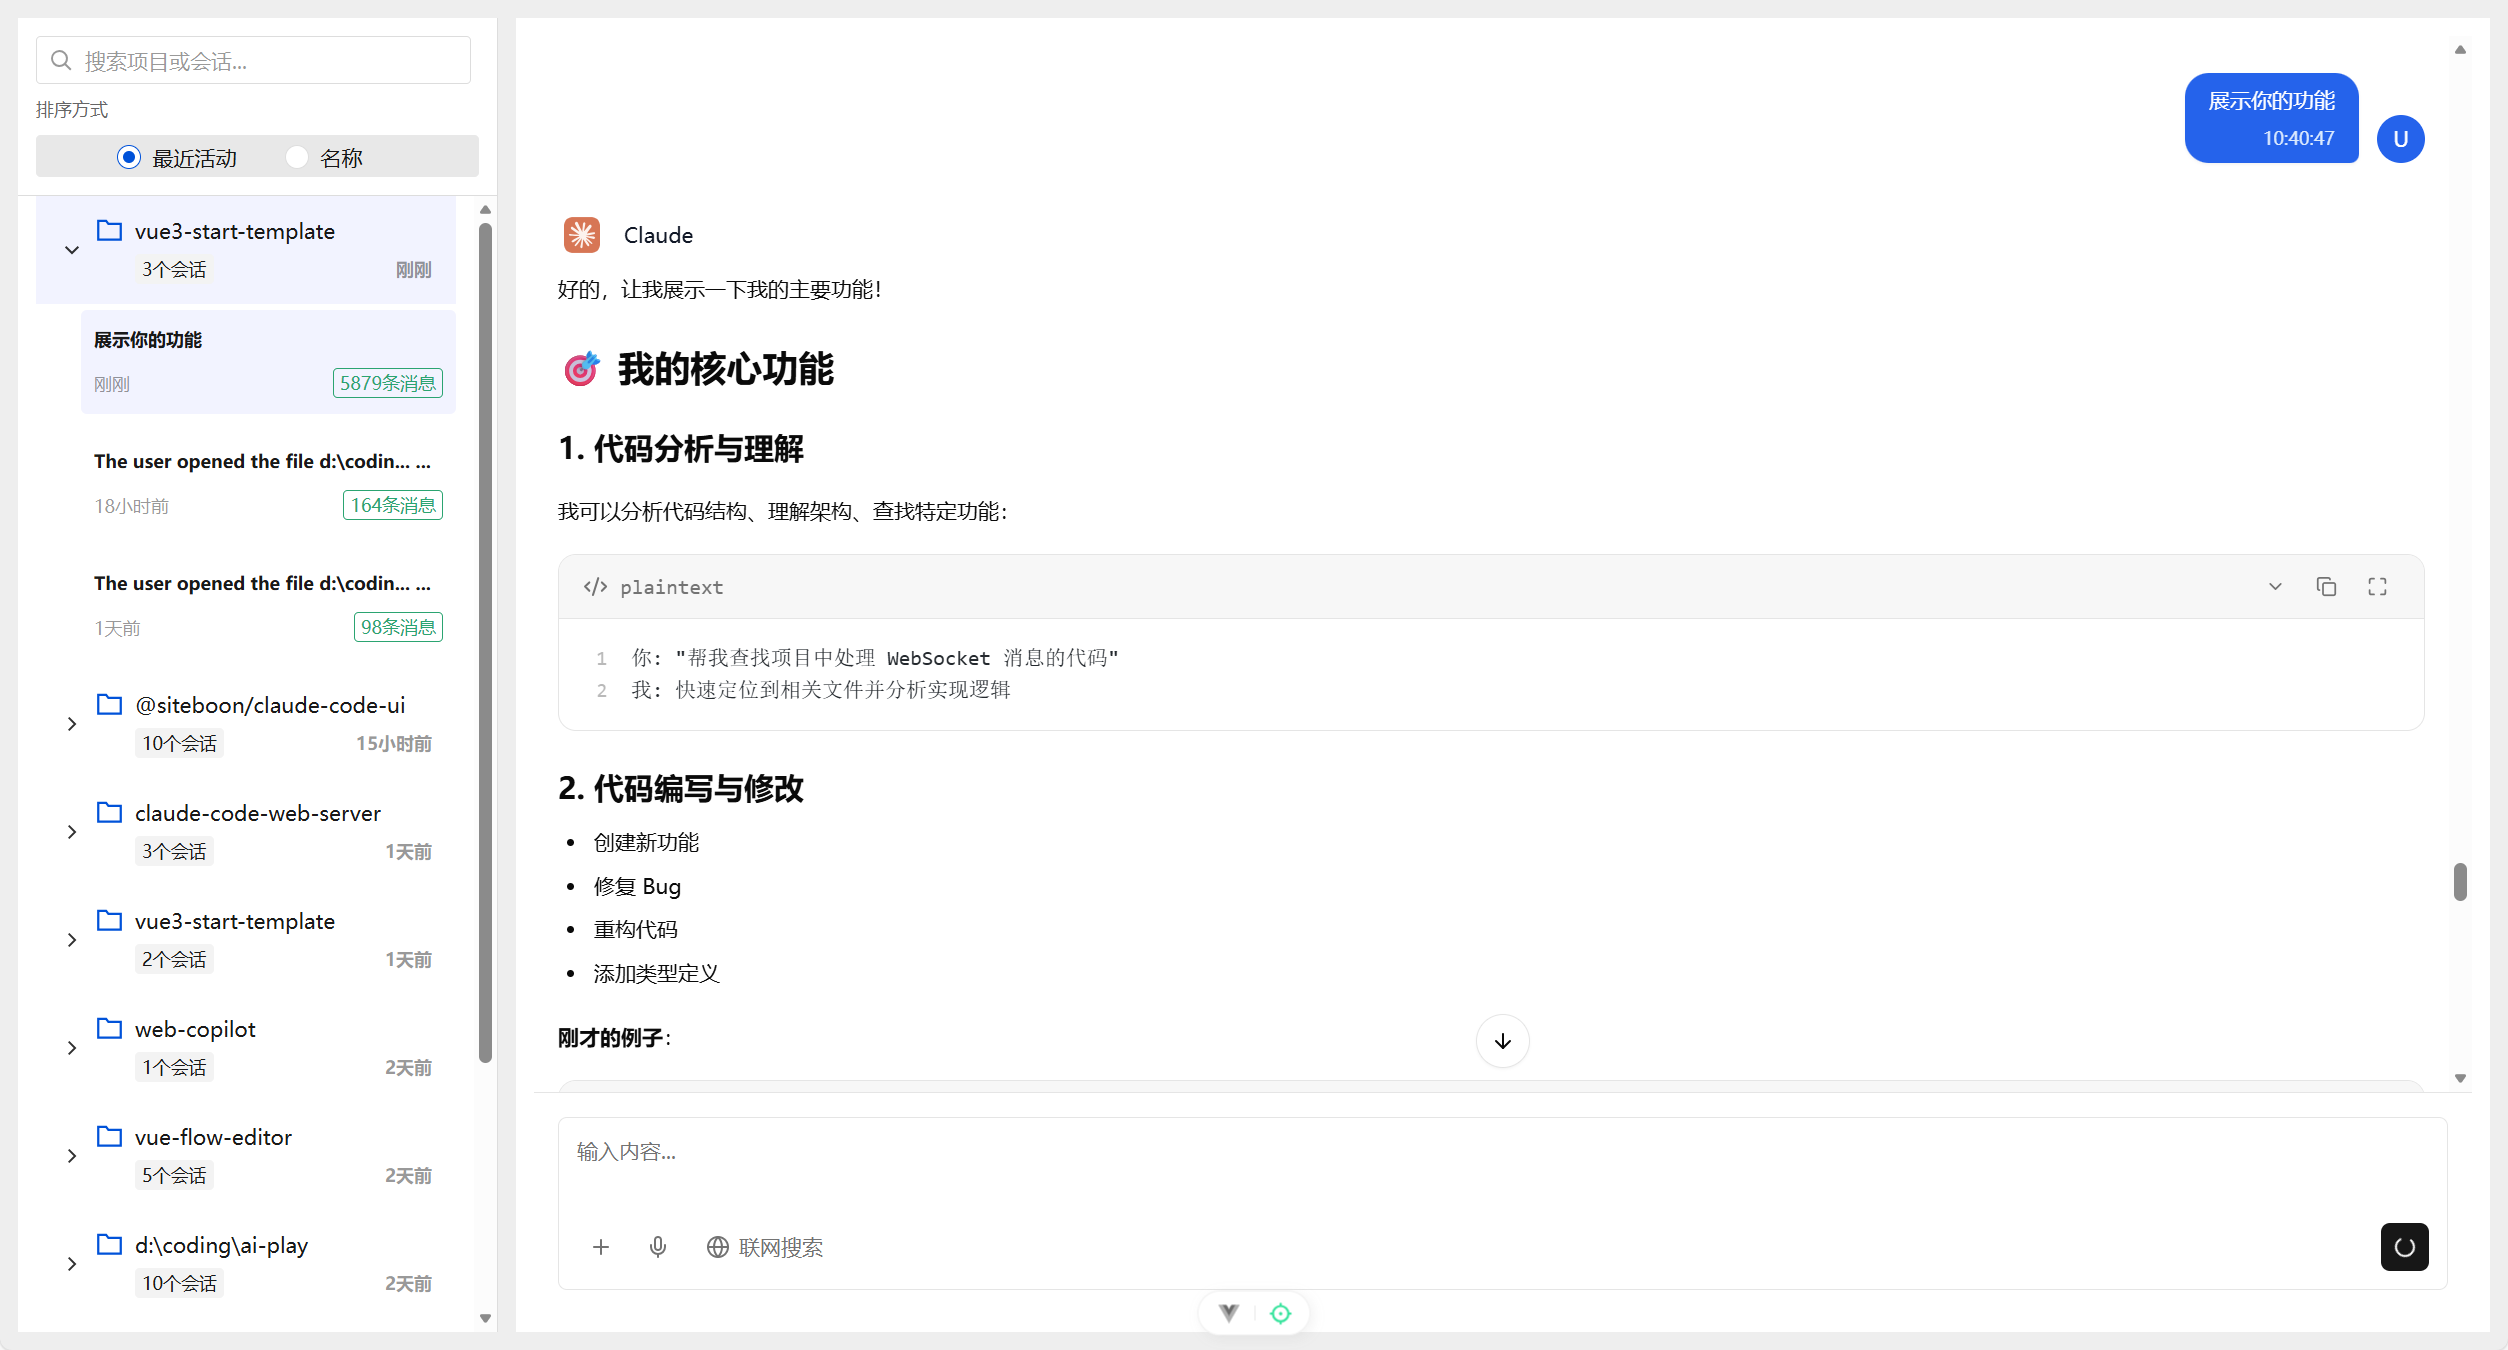
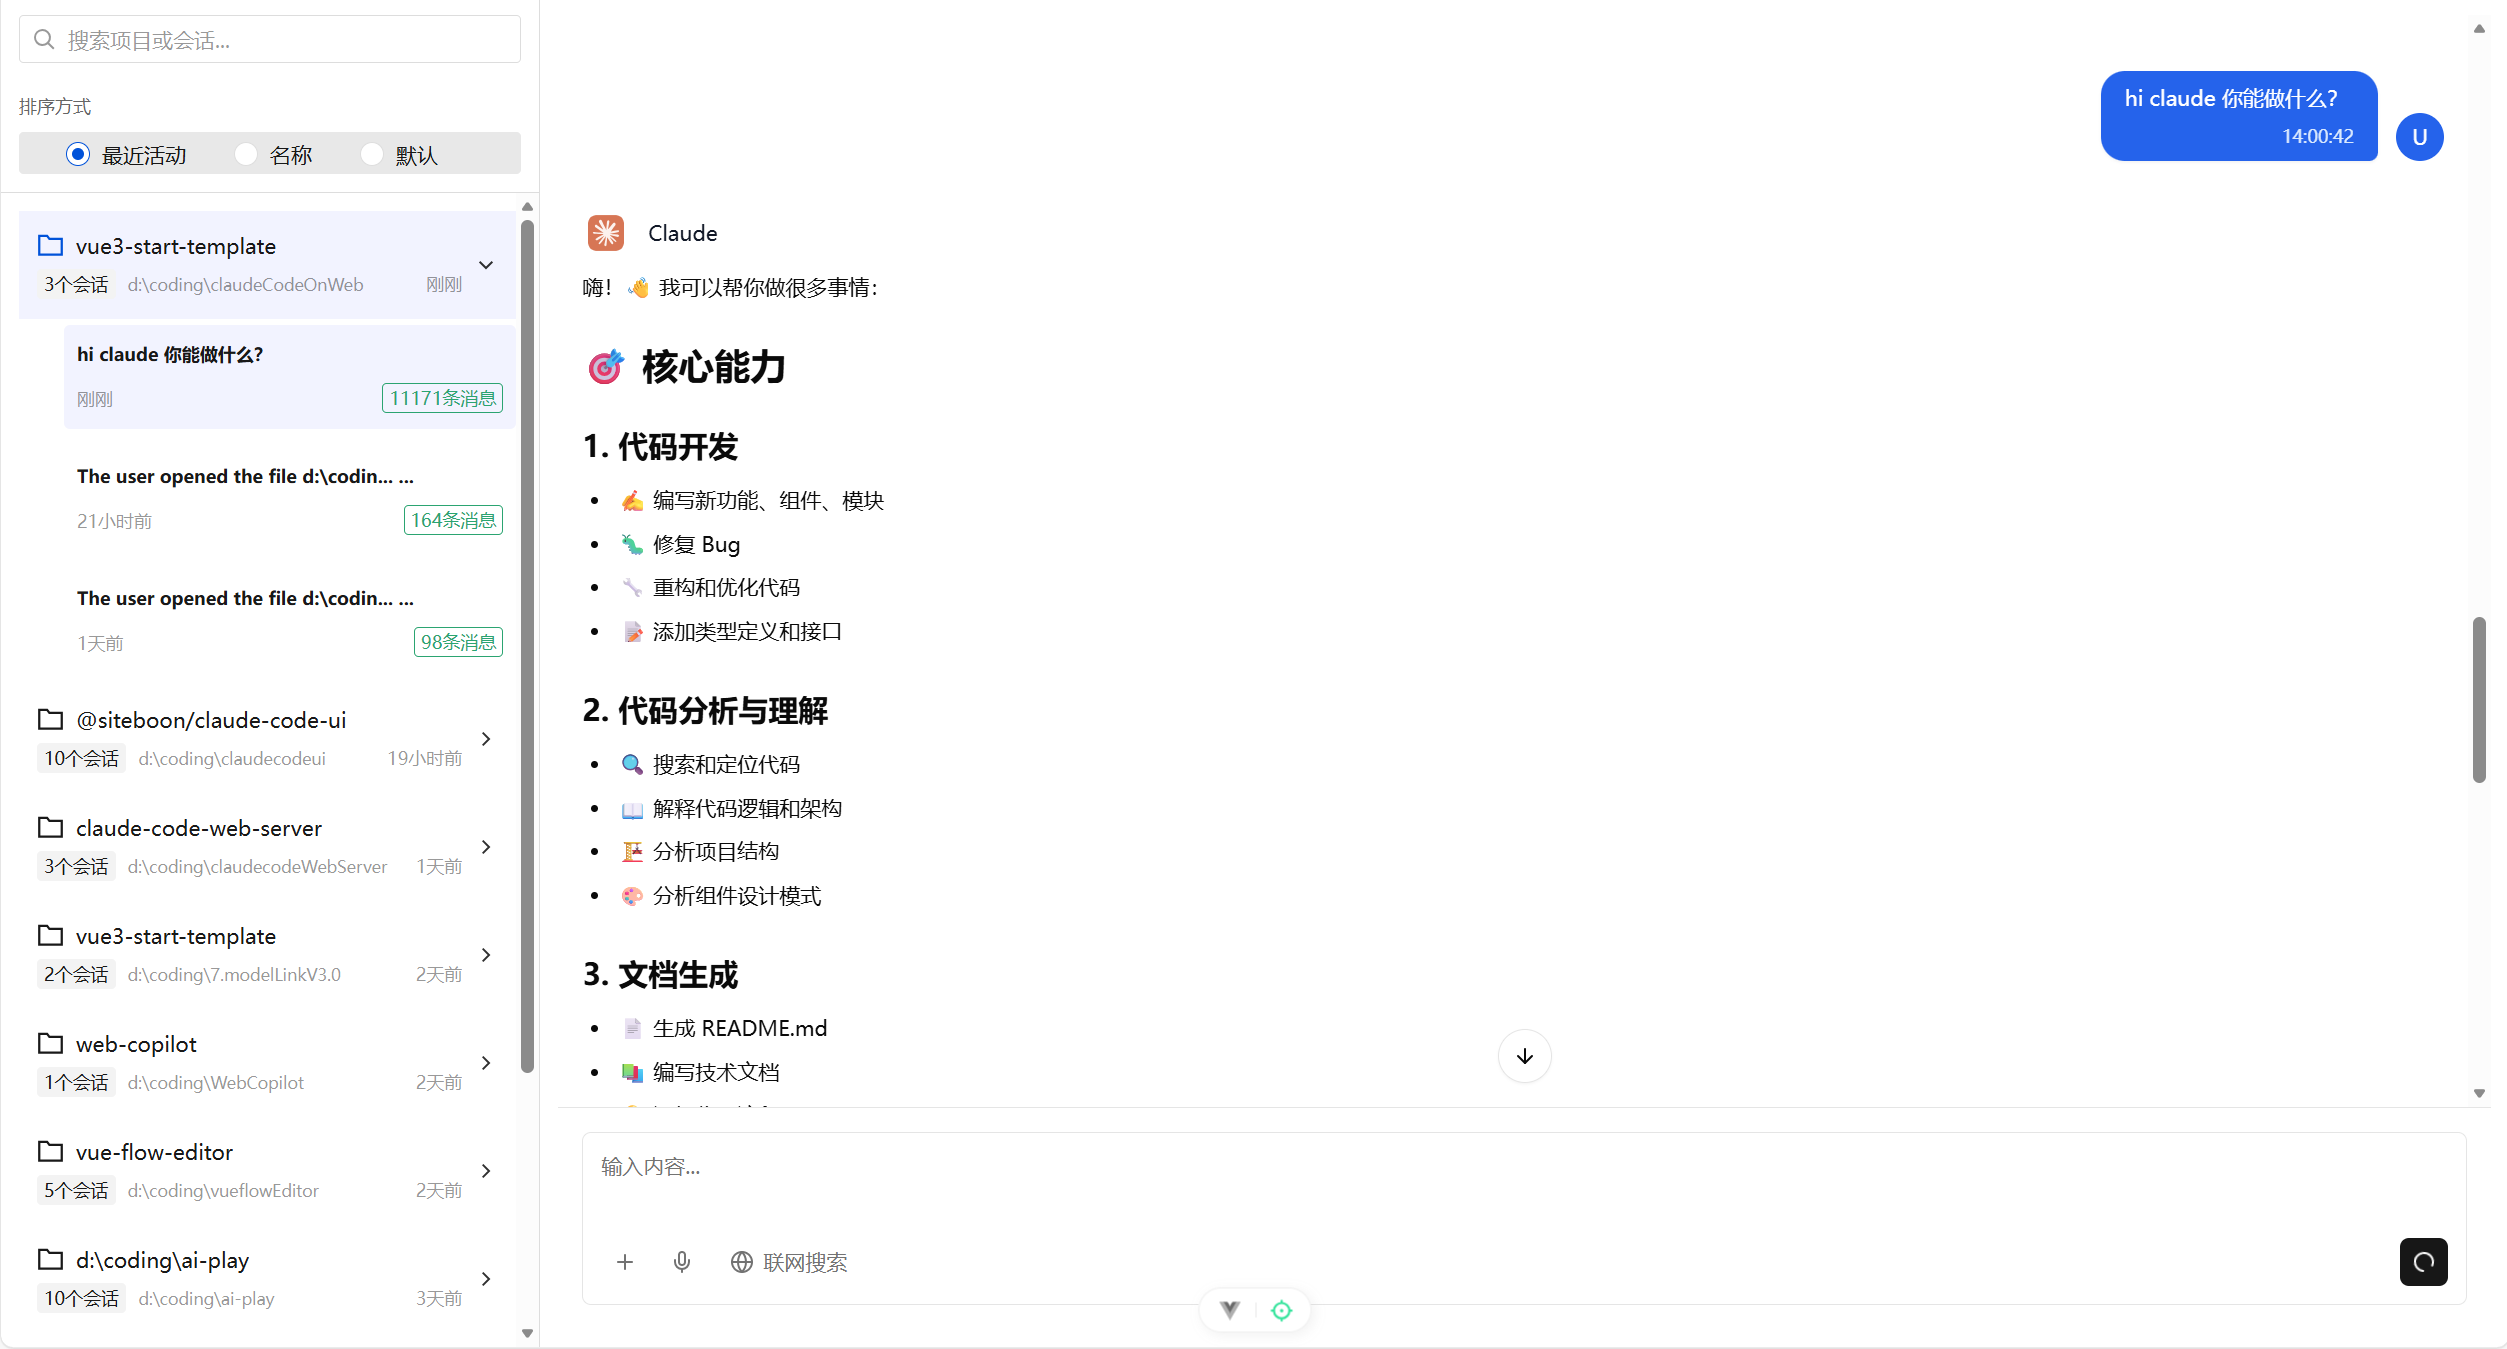
update🆙: 增加布局组件

diff --git a/src/views/index/index.vue b/src/views/index/index.vue
@@ -1,4 +1,5 @@
 <script lang="ts" setup>
+import { SplitterGroup, SplitterPanel, SplitterResizeHandle } from 'reka-ui'
 import { useChat } from './hooks/useChat'
 import { useWebSocket } from './hooks/useWebSocket'
 import { useWebSocketMessageHandler } from './hooks/useWebSocketMessageHandler'
@@ -19,215 +20,33 @@ onMounted(async () => {
 
 <template>
   <div class="index_container">
-    <!-- 左侧边栏 -->
-    <div class="left">
-      <sidebar />
-    </div>
-
-    <!-- 右侧内容区 -->
-    <div class="right">
-      <div class="welcome_container" v-if="!rawMessages?.length">
-        <t-empty status="info" title="欢迎使用 Claude Code Web">
-          <p class="welcome_text">请从左侧选择一个会话开始</p>
-        </t-empty>
-      </div>
-      <chatView v-else />
-    </div>
+    <SplitterGroup :direction="'horizontal'" auto-save-id="splitter-index">
+      <SplitterPanel :min-size="10">
+        <!-- 左侧边栏 -->
+        <sidebar />
+      </SplitterPanel>
+      <SplitterResizeHandle>
+        <div class="resizeLine"></div>
+      </SplitterResizeHandle>
+      <SplitterPanel :min-size="10" class="right">
+        <!-- 右侧内容区 -->
+        <div class="right">
+          <div class="welcome_container" v-if="!rawMessages?.length">
+            <t-empty status="info" title="欢迎使用 Claude Code Web">
+              <p class="welcome_text">请从左侧选择一个会话开始</p>
+            </t-empty>
+          </div>
+          <chatView v-else />
+        </div>
+      </SplitterPanel>
+    </SplitterGroup>
   </div>
 </template>
 
 <style lang="scss" scoped>
 .index_container {
   height: 100%;
-  display: flex;
-  gap: 12px;
-  padding: 12px;
-
-  .left {
-    width: 320px;
-    height: 100%;
-    display: flex;
-    flex-direction: column;
-    border-right: 1px solid var(--td-component-border);
-    background-color: var(--td-bg-color-container);
-
-    .search_input {
-      margin: 12px;
-      margin-bottom: 8px;
-      flex-shrink: 0;
-    }
-
-    .filter_container {
-      padding: 0 12px 12px 12px;
-      border-bottom: 1px solid var(--td-component-border);
-
-      .filter_label {
-        font-size: 12px;
-        color: var(--td-text-color-secondary);
-        margin-bottom: 8px;
-      }
-
-      :deep(.t-radio-group) {
-        width: 100%;
-        display: flex;
-        justify-content: center;
-        gap: 8px;
-      }
-    }
-
-    .loading_container,
-    .empty_container {
-      display: flex;
-      align-items: center;
-      justify-content: center;
-      flex: 1;
-      min-height: 200px;
-    }
-
-    .projects_list {
-      flex: 1;
-      overflow-y: auto;
-      padding: 0 12px 12px 12px;
-
-      .projects_collapse {
-        :deep(.t-collapse-panel__header) {
-          transition: background-color 0.2s;
-
-          &:hover {
-            background-color: var(--td-bg-color-container-hover);
-          }
-        }
-        :deep(.t-collapse-panel__header--blank) {
-          flex: unset;
-        }
-
-        :deep(.t-collapse-panel__body) {
-          padding: 0;
-          .t-collapse-panel__content {
-            padding: 4px 0px 4px 30px;
-          }
-        }
-
-        .project_panel {
-          margin-bottom: 0;
-          &.active {
-            background-color: var(--td-brand-color-1);
-          }
-          .project_header {
-            flex: 1;
-            display: flex;
-            overflow: auto;
-
-            .project_icon {
-              color: var(--td-brand-color);
-              flex-shrink: 0;
-              margin-top: 2px;
-            }
-
-            .project_info {
-              flex: 1;
-              min-width: 0;
-              overflow: hidden;
-
-              .project_name {
-                width: 100%;
-                display: flex;
-                gap: 8px;
-                align-items: center;
-                .name_text {
-                  font-size: 14px;
-                  font-weight: 500;
-                  overflow: hidden;
-                  text-overflow: ellipsis;
-                  white-space: nowrap;
-                }
-              }
-
-              .project_meta {
-                display: flex;
-                align-items: center;
-                justify-content: space-between;
-                gap: 8px;
-                margin-top: 4px;
-                .path {
-                  flex: 1;
-                  font-weight: normal;
-                  font-size: 11px;
-                  overflow: hidden;
-                  text-overflow: ellipsis;
-                  white-space: nowrap;
-                  color: var(--td-text-color-placeholder);
-                }
-                .last_activity {
-                  color: var(--td-text-color-placeholder);
-                  font-size: 12px;
-                  flex-shrink: 0;
-                  font-weight: normal;
-                }
-              }
-            }
-          }
-        }
-
-        .sessions_list {
-          display: flex;
-          flex-direction: column;
-          gap: 8px;
-
-          .session_item {
-            padding: 8px 8px;
-            border-radius: 4px;
-            cursor: pointer;
-            transition: all 0.2s;
-            margin-bottom: 4px;
-            border: 1px solid transparent;
-
-            &:hover {
-              background-color: var(--td-bg-color-container-hover);
-            }
-
-            &.active {
-              background-color: var(--td-brand-color-1);
-            }
-
-            .session_header {
-              display: flex;
-              justify-content: space-between;
-              align-items: flex-start;
-              gap: 8px;
-              margin-bottom: 4px;
-
-              .session_summary {
-                flex: 1;
-                font-size: 12px;
-                color: var(--td-text-color-primary);
-                overflow: hidden;
-                text-overflow: ellipsis;
-                // display: -webkit-box;
-                // -webkit-line-clamp: 2;
-                // -webkit-box-orient: vertical;
-                white-space: nowrap;
-                margin-bottom: 4px;
-                font-weight: bold;
-              }
-            }
-
-            .session_time {
-              font-size: 12px;
-              color: var(--td-text-color-placeholder);
-              font-weight: 400;
-              display: flex;
-              justify-content: space-between;
-            }
-          }
-
-          .no_sessions {
-            padding: 20px 0;
-          }
-        }
-      }
-    }
-  }
+  // padding: 12px;
 
   .right {
     flex: 1;

diff --git a/src/views/index/components/sidebar.vue b/src/views/index/components/sidebar.vue
@@ -8,7 +8,7 @@ const { filteredProjects, searchValue, projectLoading, sortBy, selectedProject, 
 
 <template>
   <div class="chat_sidebar">
-    <t-input style="width: 92%" v-model="searchValue" placeholder="搜索项目或会话..." clearable class="search_input">
+    <t-input v-model="searchValue" placeholder="搜索项目或会话..." clearable class="search_input">
       <template #prefix-icon>
         <t-icon name="search" />
       </template>
@@ -92,7 +92,7 @@ const { filteredProjects, searchValue, projectLoading, sortBy, selectedProject, 
 <style lang="scss" scoped>
 .chat_sidebar {
   position: relative;
-  width: 320px;
+  width: 100%;
   height: 100%;
   display: flex;
   flex-direction: column;
@@ -100,9 +100,9 @@ const { filteredProjects, searchValue, projectLoading, sortBy, selectedProject, 
   background-color: var(--td-bg-color-container);
 
   .search_input {
-    margin: 12px;
     margin-bottom: 8px;
     flex-shrink: 0;
+    padding: 12px;
   }
 
   .filter_container {
